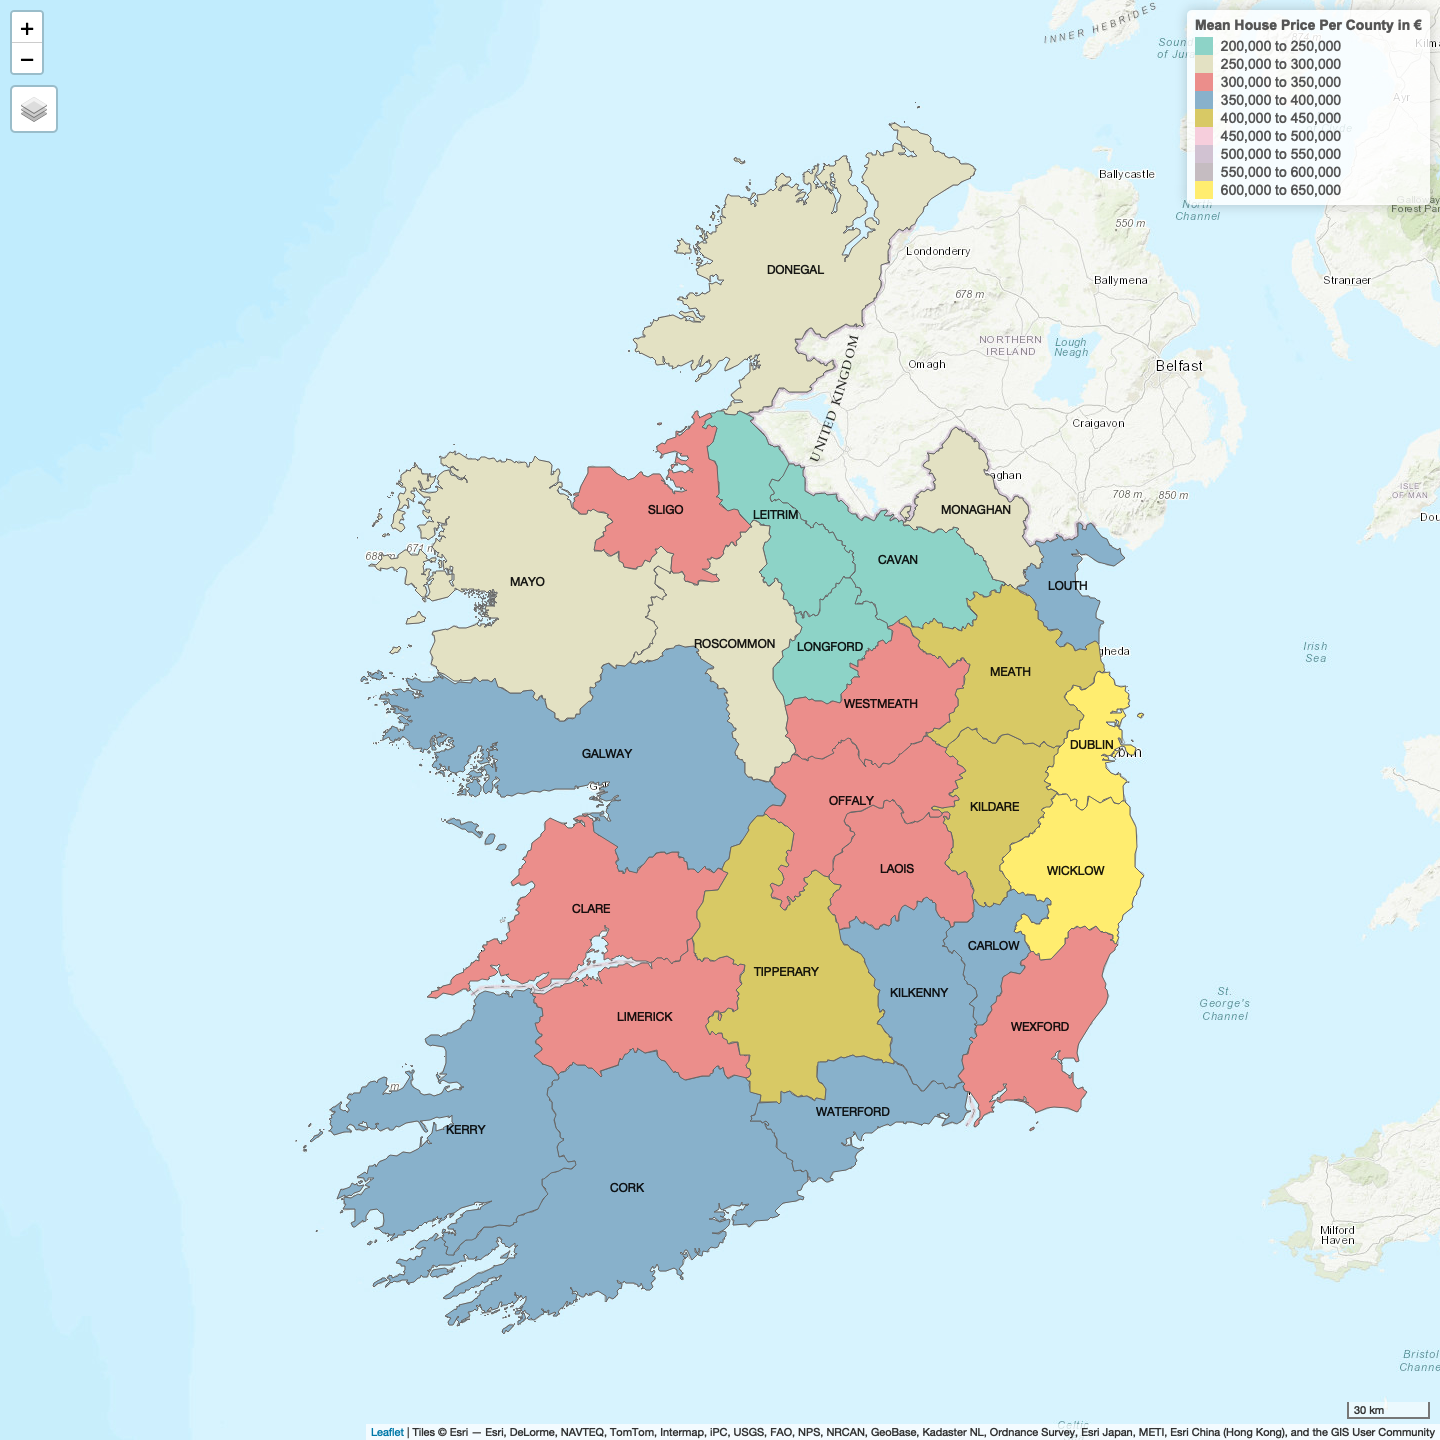
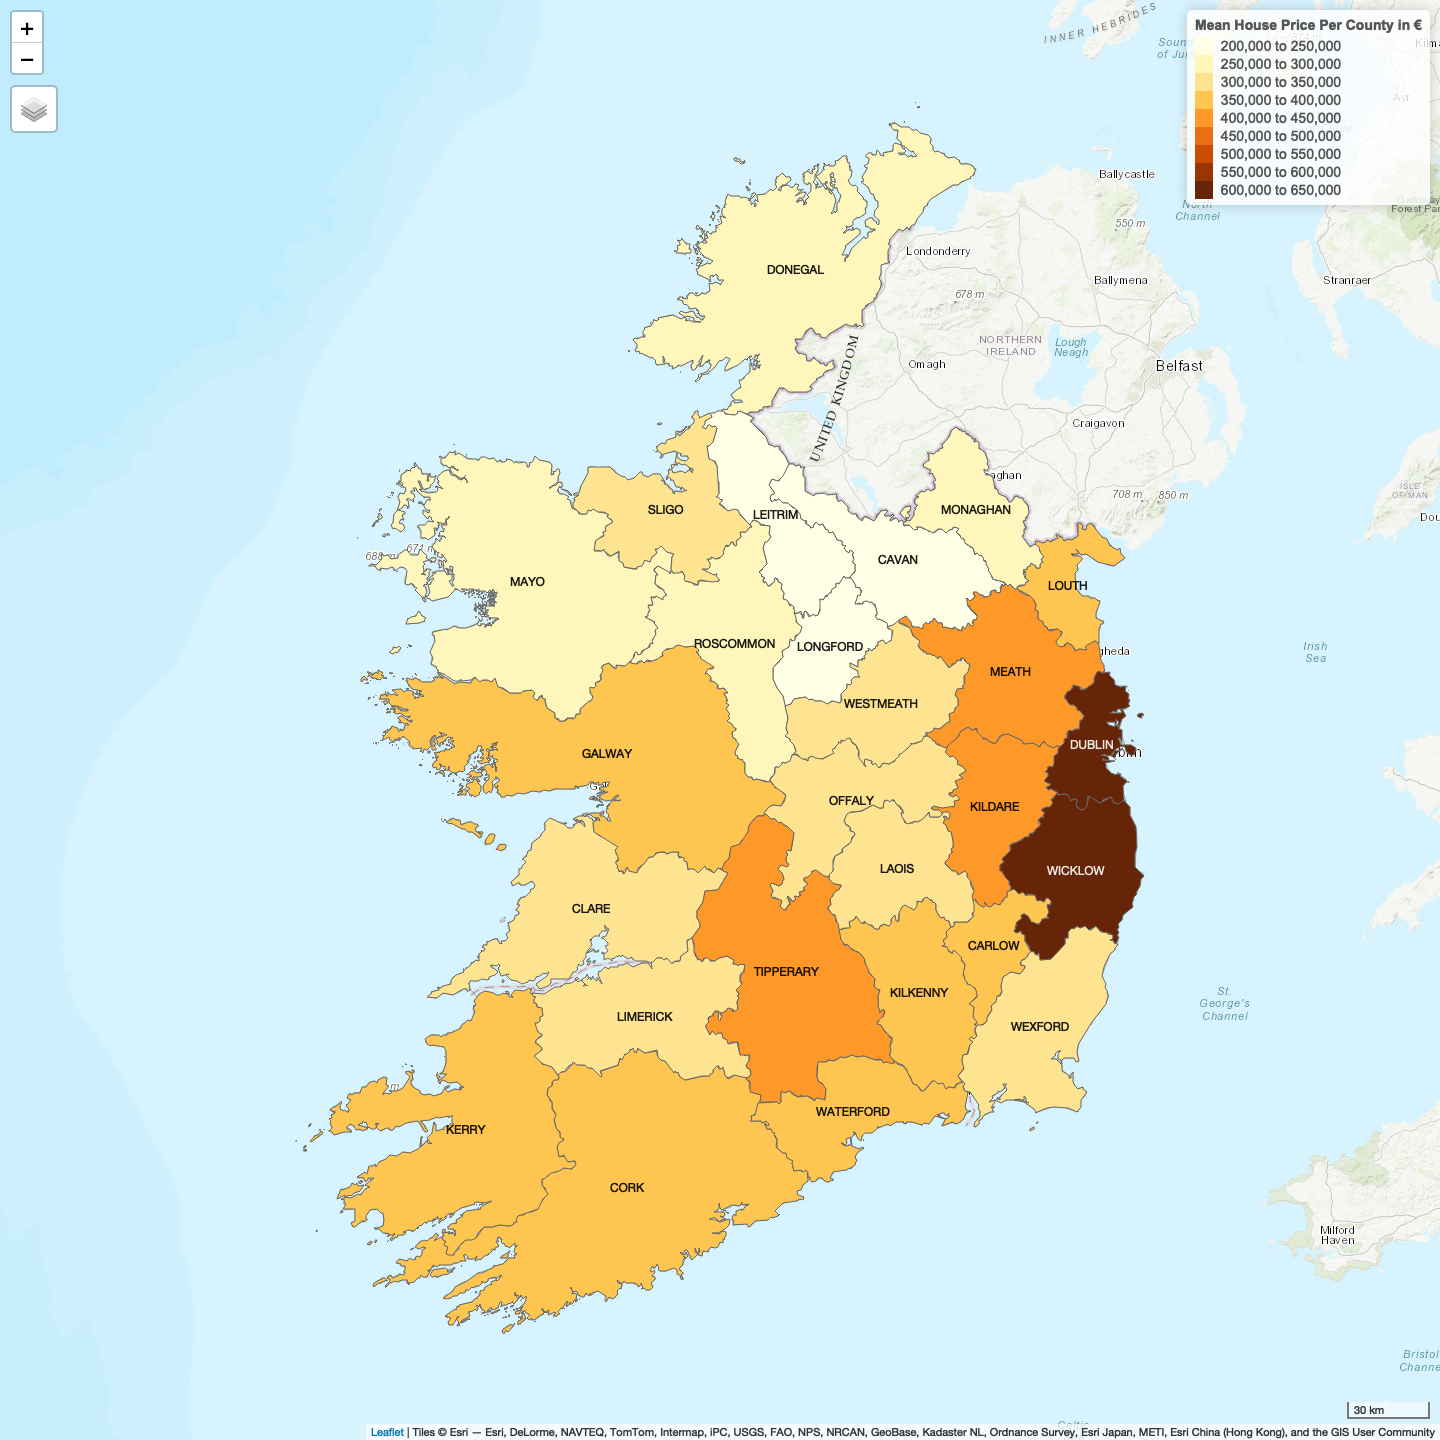
refactor: Improve visualisation of some grpahs and describe what can be seen on each of them.

Changed region(s): [[0.2188, 0.0938, 0.8125, 0.9375], [0.8125, 0.0312, 0.8438, 0.1562]]

diff --git a/scripts/exploration/DataExploration-HousingDataset.md b/scripts/exploration/DataExploration-HousingDataset.md
@@ -1,7 +1,7 @@
 Ireland Housing - Exploratory Data Analysis - EDA
 ================
 Marcos Cavalcante
-2023-04-16
+2023-04-20
 
 - <a href="#exploratory-data-analysis"
   id="toc-exploratory-data-analysis">Exploratory Data Analysis</a>
@@ -52,14 +52,12 @@ Marcos Cavalcante
     and House price</a>
 - <a href="#spatial-visualisation" id="toc-spatial-visualisation">Spatial
   Visualisation</a>
-  - <a href="#plot-of-property-type-by-county"
-    id="toc-plot-of-property-type-by-county">Plot of Property Type by
-    County</a>
-  - <a href="#plot-of-count-of-houses-by-county"
-    id="toc-plot-of-count-of-houses-by-county">Plot of Count of Houses by
-    County</a>
-  - <a href="#plot-of-property-type" id="toc-plot-of-property-type">Plot of
-    Property Type</a>
+  - <a href="#bubble-plot-of-property-type-by-county"
+    id="toc-bubble-plot-of-property-type-by-county">Bubble Plot of Property
+    Type by County</a>
+  - <a href="#density-plot-of-count-of-houses-by-county"
+    id="toc-density-plot-of-count-of-houses-by-county">Density Plot of Count
+    of Houses by County</a>
   - <a href="#choropleth-map-of-mean-house-price-per-county"
     id="toc-choropleth-map-of-mean-house-price-per-county">Choropleth Map of
     Mean House Price per County</a>
@@ -1057,8 +1055,8 @@ the null hypothesis (**H0**).
 #### Box Plot of BER Rating and House price
 
 ``` r
-ggplot(ireland_houses, aes(x = berRating, y = price)) +
-  geom_boxplot( aes(fill = berRating), color = "black", outlier.shape = NA) +
+ggplot(ireland_houses %>% filter(!(berRating == "")), aes(x = berRating, y = price)) +
+  geom_boxplot( aes(fill = berRating), color = "black", outlier.shape = 16) +
   labs(title = "Box plot of prices by BER rating", 
        x = "BER rating", 
        y = "Price in Log10 scale") +
@@ -1104,22 +1102,6 @@ The F-Critical value is significantly smaller than the F-value
 calculated from the ANOVA step, therefore, we can certainly **reject**
 the null hypothesis (**H0**).
 
-#### Box Plot of Town or Neighbourhood and House price
-
-``` r
-ggplot(ireland_houses, aes(x = townOrNeighbourhood, y = price)) +
-  geom_boxplot( aes(fill = townOrNeighbourhood), 
-                color = "black", 
-                outlier.shape = NA) +
-  labs(title = "Box plot of prices by Town or Neighbourhood", 
-       x = "Town or Neighbourhood", 
-       y = "Price in Log10 scale") +
-  scale_y_log10() +
-  theme(text=element_text(size = 20, face = "bold", family = "mono"))
-```
-
-![](DataExploration-HousingDataset_files/figure-gfm/Box-Plot%20of%20Town%20or%20Neighbourhood%20and%20House%20price-1.png)<!-- -->
-
 # Data Visualisation
 
 ## Property Price
@@ -1130,7 +1112,7 @@ The next graph displays how prices and property prices are related.
 
 ``` r
 ggplot(ireland_houses, aes(x = propertyType, y = price)) +
-  geom_boxplot( aes(fill = propertyType), color = "black", outlier.shape = NA) +
+  geom_boxplot( aes(fill = propertyType), color = "black", outlier.shape = 16) +
   labs(title = "Box plot of prices by property type", 
        x = "Property type", 
        y = "Price in Log10 scale") +
@@ -1191,6 +1173,8 @@ ggplot(ireland_houses, aes(x=price, color=county, fill=county)) +
 ```
 
 ![](DataExploration-HousingDataset_files/figure-gfm/Density%20Plot%20of%20County%20and%20House%20price-1.png)<!-- -->
+The density plot of the house price by county above shows the
+distribution of the house price.
 
 # Spatial Visualisation
 
@@ -1230,7 +1214,7 @@ create_county_map <- function() {
 ireland_by_county_sf <- create_county_map()
 ```
 
-## Plot of Property Type by County
+## Bubble Plot of Property Type by County
 
 ``` r
 property_type_count <- aggregate(
@@ -1264,17 +1248,37 @@ tm_shape(shp = shp_ireland) +
 tm_shape(shp = property_type_count_by_county) + 
   tm_bubbles(size = "count", 
              col = "propertyType", 
-             legend.size.show = FALSE, 
-             alpha=0.9, 
+             legend.size.show = TRUE, 
+             alpha = 0.9, 
              palette = "Set3") +
-  tm_layout(legend.text.size = 1.1, legend.title.size = 1.4, frame = FALSE) + 
-  tm_facets(by="propertyType", ncol = 3, nrow = 3) +
-  tm_legend(show = TRUE,  title = "Property Types by County")
+  tm_facets(by = "propertyType", ncol = 3, nrow = 3) +
+  tm_layout(legend.text.size = 1.1, legend.title.size = 1.4, frame = TRUE) 
 ```
 
 ![](DataExploration-HousingDataset_files/figure-gfm/Plot%20of%20Property%20Type%20by%20County-1.png)<!-- -->
 
-## Plot of Count of Houses by County
+The bubble plot above depicts the size of the presence for each property
+type across the country. A few interesting things can be seen in the
+graph above, for example:
+
+- There is little observation with *propertyType* of type **Duplex**,
+  and where we see those is in the **Dublin** county area in the east
+  side of the country.
+
+- Similar case we can find for *propertyType* of type **Bungalow**,
+  however those do not even have a significant presence in any area.
+
+- By far, the most popular property types are **Terrace**, **Detached**
+  and **Semi-D**.
+
+- **Apartments** have a very heavy presence in Dublin area, East Coast,
+  and some presence near other big centres like Cork city in the South
+  East and Galway city on the West coast.
+
+- Lastly, there seems to be little presence of properties in the middle
+  of the country.
+
+## Density Plot of Count of Houses by County
 
 ``` r
 tmap_mode("view")
@@ -1311,27 +1315,24 @@ tm_shape(count_houses_county_map) +
     tm_scale_bar()
 ```
 
-![](DataExploration-HousingDataset_files/figure-gfm/Plot%20of%20Count%20of%20Houses%20by%20County-1.png)<!-- -->
+![](DataExploration-HousingDataset_files/figure-gfm/Density%20Plot%20of%20Count%20of%20Houses%20by%20County-1.png)<!-- -->
 
-## Plot of Property Type
+The graph above illustrates some points indicated by the previous Bubble
+plot. The countryside of the country or its midlands do not have as many
+properties on offer as some counties located in the coast. The amount of
+properties available in the countries on the countryside range from 35
+to 256 properties per county. When compared to Dublin and Cork, it is
+possible to see a huge disparaty.
 
-``` r
-tm_shape(shp = shp_ireland) + 
-  tm_borders(alpha = 0.5) +
-  tm_shape(shp = ireland_houses_sf) + 
-  tm_dots(
-    style = "quantile",
-    col = "propertyType", 
-    size = 0.05
-  ) +
-  tm_scale_bar()
-```
-
-![](DataExploration-HousingDataset_files/figure-gfm/Plot%20of%20Property%20Type-1.png)<!-- -->
+It is worth noting that counties adjacent to areas with high property
+supply tend to have more availability compared to counties situated
+farther away from the center of those clusters.
 
 ## Choropleth Map of Mean House Price per County
 
 ``` r
+tmap_mode("view")
+
 ireland_houses_by_county <- aggregate(ireland_houses["price"], 
                           by = ireland_houses["county"], mean)
 
@@ -1349,7 +1350,7 @@ tm_shape(shp = shp_ireland) +
   tm_polygons(
     col = "price", 
     title = "Mean House Price Per County in €", 
-    palette = "Set3",                 
+    palette = "YlOrBr",                 
     stretch.palette = FALSE, 
     n = 6
   ) +  
@@ -1358,3 +1359,16 @@ tm_shape(shp = shp_ireland) +
 ```
 
 ![](DataExploration-HousingDataset_files/figure-gfm/Plot%20of%20Mean%20House%20Price%20per%20County-1.png)<!-- -->
+
+The above graph demonstrates yet another fascinating phenomenon known as
+the “neighbouring effect,” which supports the first law of geography’s
+assertion that the price of houses in a given county can impact the
+prices in adjacent counties. In other words, the mean house price in one
+county has a significant influence on the mean house prices of
+neighboring counties.
+
+It is noteworthy to emphasize that county Dublin has a significant
+impact on neighboring counties such as Wicklow, Kildare, and Meath,
+among others. Similarly, the counties in the midlands have a noticeable
+impact on each other, resulting in lower mean house prices in the
+region.
